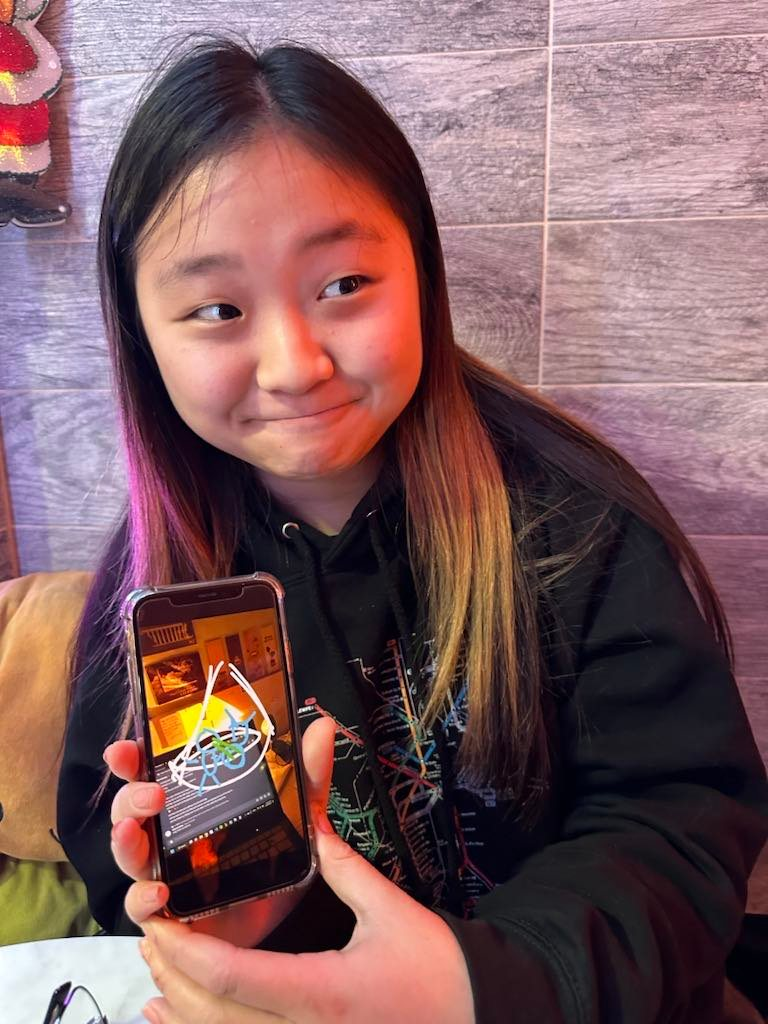
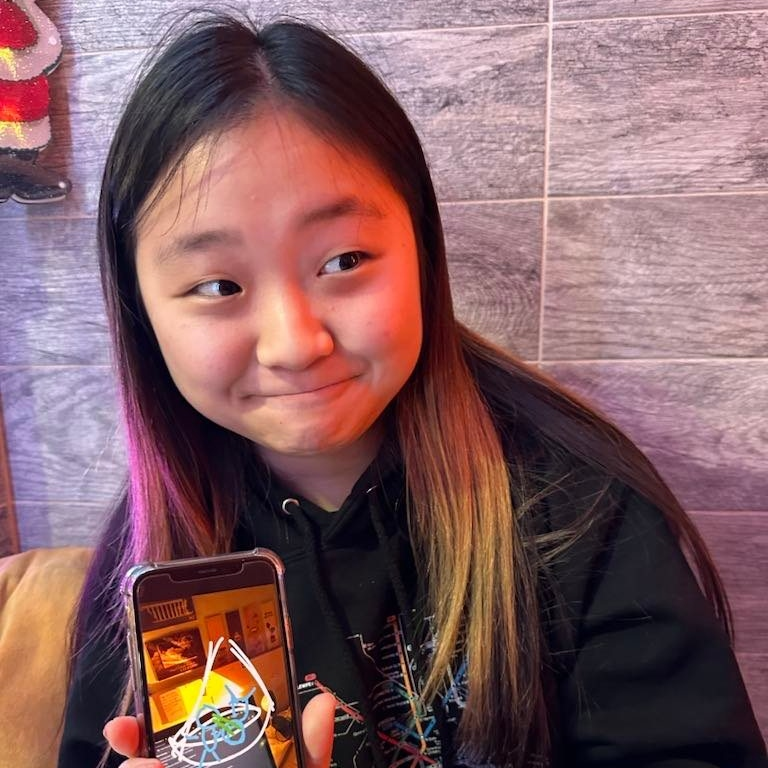
add bios and crop images

diff --git a/beasties.html b/beasties.html
@@ -37,18 +37,135 @@
                 <div class="box-content">
                     <div class="beast-list">
                         <div class="beast-container">
+                            <img class="beast-img" src="images/eun.jpg">
+                            <div id="beast-name">
+                            Eun <pronouns>(they/she)</pronouns>
+                                <div class="beast-text">
+                                    <p><strong>Year:</strong> 2026</p>
+                                    <p><strong>Major:</strong> 6 + WGS (computer science + women's & gender studies)</p>
+                                    <p>"I LOVE NERTZ!!!!
+
+                                        i enjoy listening to music (jo yuri and iz*one! &#60;3), reading good (and bad &#59;-&#59;) fic, cool graphs and data, bread, & spending time with family and friends. my favorite quote: "how lucky i am to have something that makes saying goodbye so hard" - winnie the pooh, in the voice of my oldest sister zizi"</p>
+                                </div>
+                            </div>                           
+                        </div>
+                        <div class="beast-container">
+                            <img class="beast-img" src="images/beast-logo.png">
+                            <div id="beast-name">
+                            Javier 
+                                <div class="beast-text">
+                                    <p><strong>Year:</strong> 2024</p>
+                                    <p><strong>Major:</strong> 6-3 (computer science)</p>
+                                </div>
+                            </div>                           
+                        </div>
+                        <div class="beast-container">
+                            <img class="beast-img" src="images/kano.jpg">
+                            <div id="beast-name">
+                            Kanokwan <pronouns>(she/her)</pronouns>
+                                <div class="beast-text">
+                                    <p><strong>Year:</strong> 2025.5</p>
+                                    <p><strong>Major:</strong> 2 + 17 (meche + political science/global studies)</p>
+                                    <p>"hi i'm kano! i like to make things, break things, and play with things. kurt vonnegut is my current fav author: cat's cradle and slaughterhouse-five are excellent books. i enjoy many many quotes, this week's notable one being &quot;the same hot water that softens the potato also hardens the egg.&quot; this is my ig, where i'm most active: <a href="https://www.instagram.com/pakaprow" target="_blank" rel="noopener noreferrer">https://www.instagram.com/pakaprow<svg xmlns="http://www.w3.org/2000/svg" aria-hidden="true" x="0px" y="0px" viewBox="0 0 100 100" width="15" height="15" class="icon outbound"><path fill="currentColor" d="M18.8,85.1h56l0,0c2.2,0,4-1.8,4-4v-32h-8v28h-48v-48h28v-8h-32l0,0c-2.2,0-4,1.8-4,4v56C14.8,83.3,16.6,85.1,18.8,85.1z"></path> <polygon fill="currentColor" points="45.7,48.7 51.3,54.3 77.2,28.5 77.2,37.2 85.2,37.2 85.2,14.9 62.8,14.9 62.8,22.9 71.5,22.9"></polygon></svg></a>. this is my twitter, where i'm most dangerous: <a href="https://twitter.com/bbywch" target="_blank" rel="noopener noreferrer">https://twitter.com/bbywch<svg xmlns="http://www.w3.org/2000/svg" aria-hidden="true" x="0px" y="0px" viewBox="0 0 100 100" width="15" height="15" class="icon outbound"><path fill="currentColor" d="M18.8,85.1h56l0,0c2.2,0,4-1.8,4-4v-32h-8v28h-48v-48h28v-8h-32l0,0c-2.2,0-4,1.8-4,4v56C14.8,83.3,16.6,85.1,18.8,85.1z"></path> <polygon fill="currentColor" points="45.7,48.7 51.3,54.3 77.2,28.5 77.2,37.2 85.2,37.2 85.2,14.9 62.8,14.9 62.8,22.9 71.5,22.9"></polygon></svg></a>. this is my facebook, where my parents follow me (and you know how that goes): <a href="https://www.facebook.com/kanotung" target="_blank" rel="noopener noreferrer">https://www.facebook.com/kanotung<svg xmlns="http://www.w3.org/2000/svg" aria-hidden="true" x="0px" y="0px" viewBox="0 0 100 100" width="15" height="15" class="icon outbound"><path fill="currentColor" d="M18.8,85.1h56l0,0c2.2,0,4-1.8,4-4v-32h-8v28h-48v-48h28v-8h-32l0,0c-2.2,0-4,1.8-4,4v56C14.8,83.3,16.6,85.1,18.8,85.1z"></path> <polygon fill="currentColor" points="45.7,48.7 51.3,54.3 77.2,28.5 77.2,37.2 85.2,37.2 85.2,14.9 62.8,14.9 62.8,22.9 71.5,22.9"></polygon></svg></a>. thank you."</p>
+                                </div>
+                            </div>                           
+                        </div>
+                        <div class="beast-container">
+                            <img class="beast-img" src="images/Keaten Clarno.jpg">
+                            <div id="beast-name">
+                            Keaten <pronouns>(they/them or any)</pronouns>
+                                <div class="beast-text">
+                                    <p><strong>Year:</strong> 2024</p>
+                                    <p><strong>Major:</strong> 24-1 + 8-flex (philosophy + astrophysics)</p>
+                                    <p>"hello, i am keaten! i have a companion dog whose name is tiptoe, and i enjoy reading a lot (fantasy, philosophy, scifi), walking, having good conversations, cooking vegan foods, traveling and meeting people, and dancing :)"</p>
+                                </div>
+                            </div>                           
+                        </div>
+                        <div class="beast-container">
+                            <img class="beast-img" src="images/beast-logo.png">
+                            <div id="beast-name">
+                            Matthew <pronouns>(he/they)</pronouns>
+                                <div class="beast-text">
+                                    <p><strong>Year:</strong> 2023</p>
+                                    <p><strong>Major:</strong> 6-1 + 18 (computer science + mathematics)</p>
+                                </div>
+                            </div>                           
+                        </div> 
+                        <div class="beast-container">
+                            <img class="beast-img" src="images/beast-logo.png">
+                            <div id="beast-name">
+                            Max <pronouns>(he/him or they/them)</pronouns>
+                                <div class="beast-text">
+                                    <p><strong>Year:</strong> 2026</p>
+                                    <p><strong>Major:</strong> 16 (aerospace engineering)</p>
+                                </div>
+                            </div>                           
+                        </div>
+                        <div class="beast-container">
                             <img class="beast-img" src="images/Serena An.jpeg">
                             <div id="beast-name">
-                            Serena An <pronouns>(she/her)</pronouns>
+                            Serena <pronouns>(she/her)</pronouns>
                                 <div class="beast-text">
                                     <p><strong>Year:</strong> 2026</p>
                                     <p><strong>Major:</strong> 18 (mathematics)</p>
                                     <p>"I'm a prospective math major who took a gap year to study Korean before coming to MIT. My hobbies include cooking, blogging, and teaching friends how to play Nertz!"</p>
                                 </div>
-                            </div>
-                            <!-- figure out how to center text vertically -->
-                        </div>
-                        
+                            </div>                           
+                        </div> 
+                        <div class="beast-container">
+                            <img class="beast-img" src="images/Teresa Gao.jpeg">
+                            <div id="beast-name">
+                            Teresa <pronouns>(she/her)</pronouns>
+                                <div class="beast-text">
+                                    <p><strong>Year:</strong> 2023</p>
+                                    <p><strong>Major:</strong> 6-3 + 9 (computer science + brain and cognitive sciences)</p>
+                                    <p>"I'm a violist who loves reading graphic novels and otherwise exploring the great indoors. I'm also the person who created this version of our Beast website! Feel free to say hi at t_gao [at] mit [dot] edu :)"</p>
+                                </div>
+                            </div>                           
+                        </div> 
+                        <div class="beast-container">
+                            <img class="beast-img" src="images/Thao Do.jpg">
+                            <div id="beast-name">
+                            Thao <pronouns>(she/her)</pronouns>
+                                <div class="beast-text">
+                                    <p><strong>Year:</strong> 2025</p>
+                                    <p><strong>Major:</strong> 2A (mechanical engineering - manufacturing)</p>
+                                </div>
+                            </div>                           
+                        </div> 
+                        <div class="beast-container">
+                            <img class="beast-img" src="images/Toomas.jpg">
+                            <div id="beast-name">
+                            Toomas <pronouns>(any)</pronouns>
+                                <div class="beast-text">
+                                    <p><strong>Year:</strong> 2023</p>
+                                    <p><strong>Major:</strong> 6-2 (computer science)</p>
+                                    <p>"I am a person who likes playing video games and wasting time on youtube"</p>
+                                </div>
+                            </div>                           
+                        </div> 
+                        <div class="beast-container">
+                            <img class="beast-img" src="images/Ygor.png">
+                            <div id="beast-name">
+                            Ygor <pronouns>(he/him)</pronouns>
+                                <div class="beast-text">
+                                    <p><strong>Year:</strong> 2024</p>
+                                    <p><strong>Major:</strong> 5 (chemistry)</p>
+                                    <p>"I like to talk with people, cook and puzzles. Most likely place to find me at 8am is in the kitchen making banana pancakes (some would argue it is a banana omelette) talking with people passing by, I will be very grateful if you make the kitchen smell like something good like coffee. You can ask me to try some desserts you probably never tried before"</p>
+                                </div>
+                            </div>                           
+                        </div> 
+                        <!-- <div class="beast-container">
+                            <img class="beast-img" src="images/.jpeg">
+                            <div id="beast-name">
+                            Serena <pronouns></pronouns>
+                                <div class="beast-text">
+                                    <p><strong>Year:</strong> </p>
+                                    <p><strong>Major:</strong> </p>
+                                    <p>""</p>
+                                </div>
+                            </div>                           
+                        </div>                        -->
                     </div>
                 </div>
             </div>
